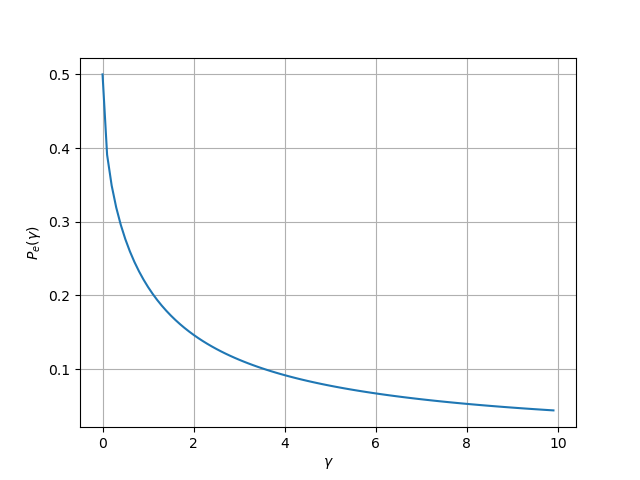
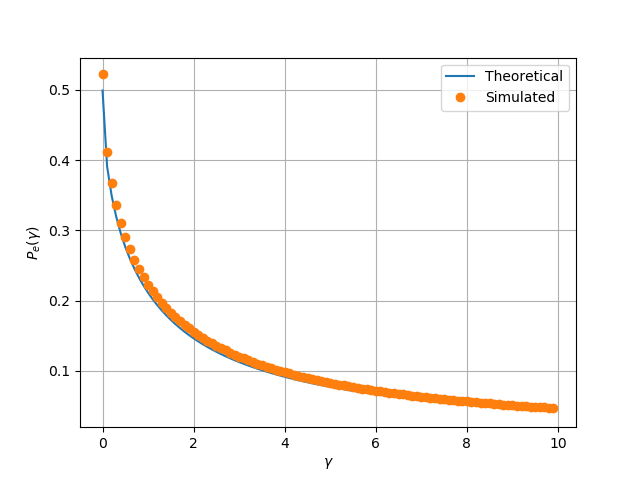
Added simulations

diff --git a/probman/codes/cond/Pe_vs_gamma_plot.py b/probman/codes/cond/Pe_vs_gamma_plot.py
@@ -3,21 +3,38 @@ import numpy as np
 import matplotlib.pyplot as plt
 import math
 import scipy
+import scipy.stats as ss
 #if using termux
 import subprocess
 import shlex
 #end if
 
 
-gamma = np.arange(0,10,0.1)#points on the x axis
+gamma = np.arange(0.00001,10,0.1)#points on the x axis
 
 def Pe(x):
     return 0.5 - 0.5*(math.sqrt(x/(2+x)))
 
 vect_Pe = scipy.vectorize(Pe)
+
+#simulation
+simlen = int(1e3)
+N = np.random.normal(0,1,simlen)
+prob = []
+
+for i in range(0, 100):
+    prob_sum = 0
+    for j in range(simlen):
+        prob_sum += ss.rayleigh.cdf(N[j], loc = 0, scale = math.sqrt((gamma[i])/2))
+    prob_sum /= simlen
+    prob.append(prob_sum)
+
+
 plt.plot(gamma, vect_Pe(gamma), '-')
+plt.plot(gamma, prob, 'o')
 plt.xlabel('$\gamma$')
 plt.ylabel('$P_e(\gamma)$')
+plt.legend(["Theoretical", "Simulated"])
 plt.grid()
 #if using termux
 #plt.savefig('figs/cond/Pe_vs_gamma.pdf')
